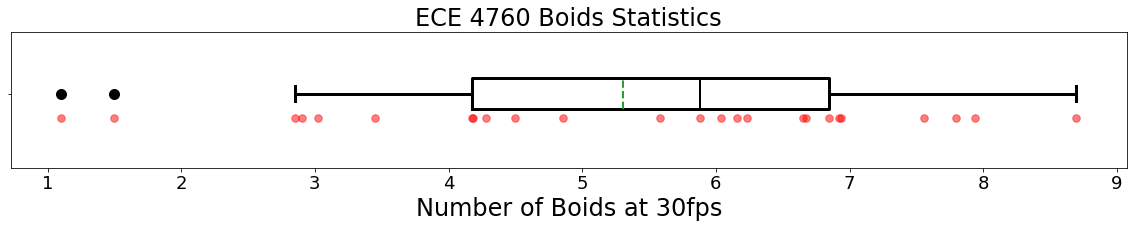
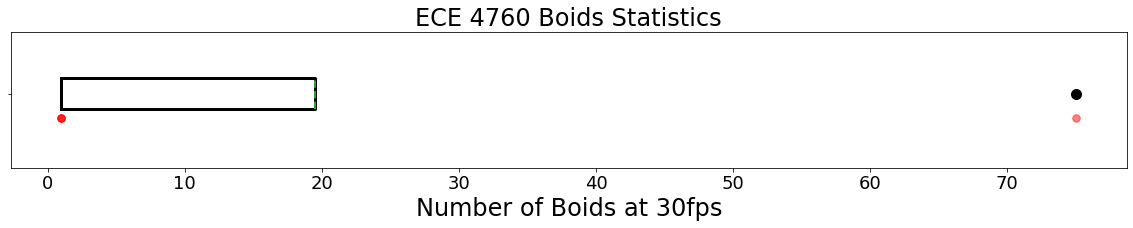
boid numbers

diff --git a/Boids/Boids_Numbers.html b/Boids/Boids_Numbers.html
@@ -13112,10 +13112,10 @@ div#notebook {
 </div>
 <div class="cell border-box-sizing code_cell rendered">
 <div class="input">
-<div class="prompt input_prompt">In&nbsp;[3]:</div>
+<div class="prompt input_prompt">In&nbsp;[5]:</div>
 <div class="inner_cell">
     <div class="input_area">
-<div class=" highlight hl-ipython3"><pre><span></span><span class="n">boids_2021</span> <span class="o">=</span> <span class="n">numpy</span><span class="o">.</span><span class="n">random</span><span class="o">.</span><span class="n">normal</span><span class="p">(</span><span class="mi">5</span><span class="p">,</span> <span class="mi">2</span><span class="p">,</span> <span class="mi">25</span><span class="p">)</span>
+<div class=" highlight hl-ipython3"><pre><span></span><span class="n">boids_2021</span> <span class="o">=</span> <span class="n">numpy</span><span class="o">.</span><span class="n">array</span><span class="p">([</span><span class="mi">75</span><span class="p">,</span> <span class="mi">1</span><span class="p">,</span> <span class="mi">1</span><span class="p">,</span> <span class="mi">1</span><span class="p">])</span>
 </pre></div>
 
     </div>
@@ -13132,7 +13132,7 @@ div#notebook {
 </div>
 <div class="cell border-box-sizing code_cell rendered">
 <div class="input">
-<div class="prompt input_prompt">In&nbsp;[4]:</div>
+<div class="prompt input_prompt">In&nbsp;[6]:</div>
 <div class="inner_cell">
     <div class="input_area">
 <div class=" highlight hl-ipython3"><pre><span></span><span class="n">plt</span><span class="o">.</span><span class="n">rcParams</span><span class="p">[</span><span class="s1">&#39;figure.figsize&#39;</span><span class="p">]</span> <span class="o">=</span> <span class="p">[</span><span class="mi">20</span><span class="p">,</span> <span class="mf">2.5</span><span class="p">]</span>
@@ -13173,7 +13173,7 @@ div#notebook {
 
 
 <div class="output_png output_subarea ">
[2 lines of base64/hex data omitted]
 "
 >
 </div>
